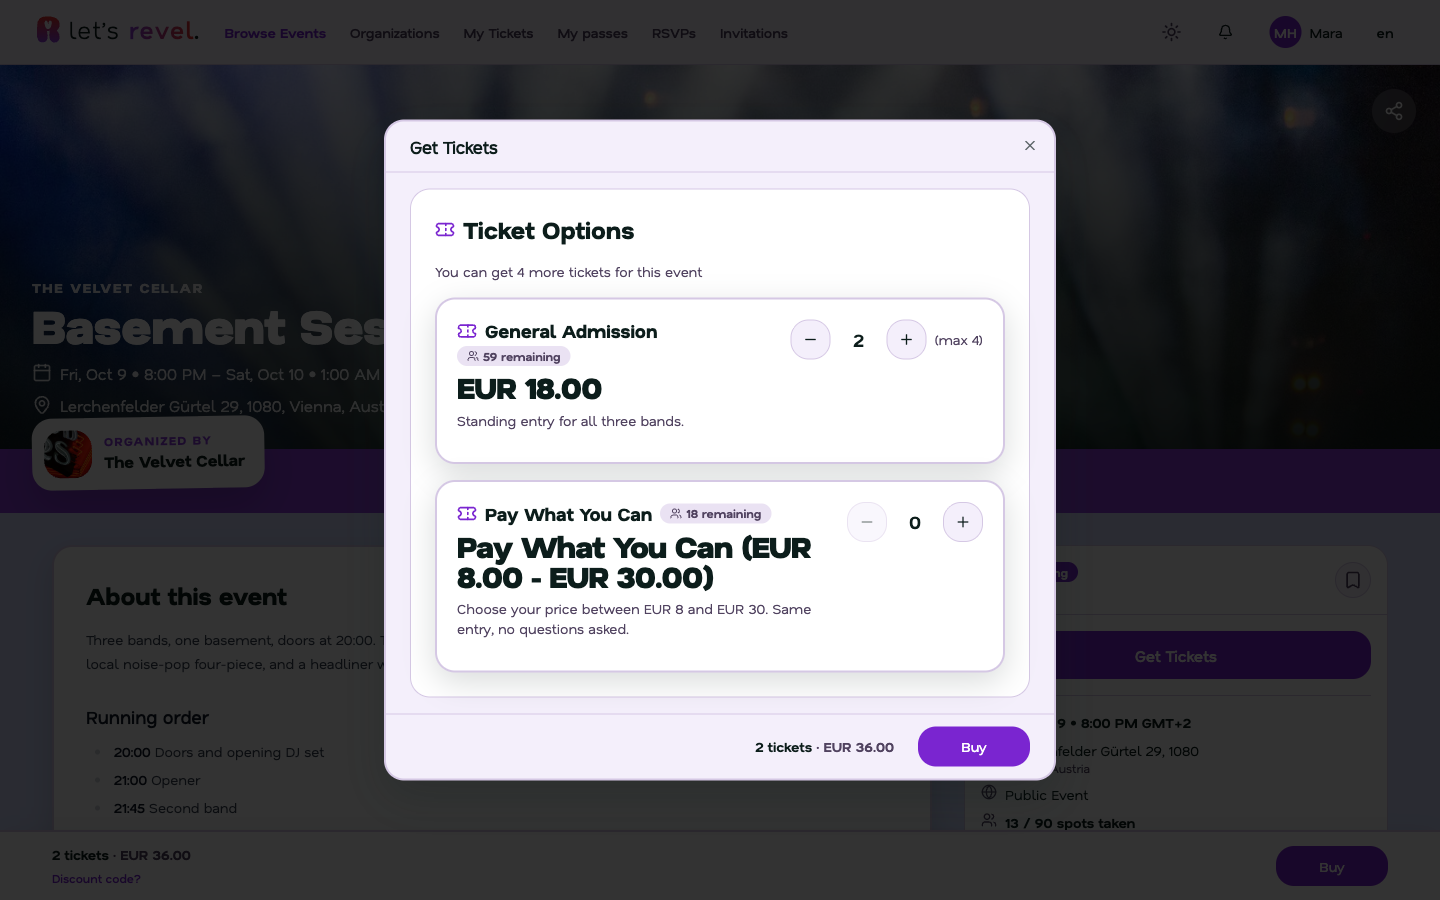
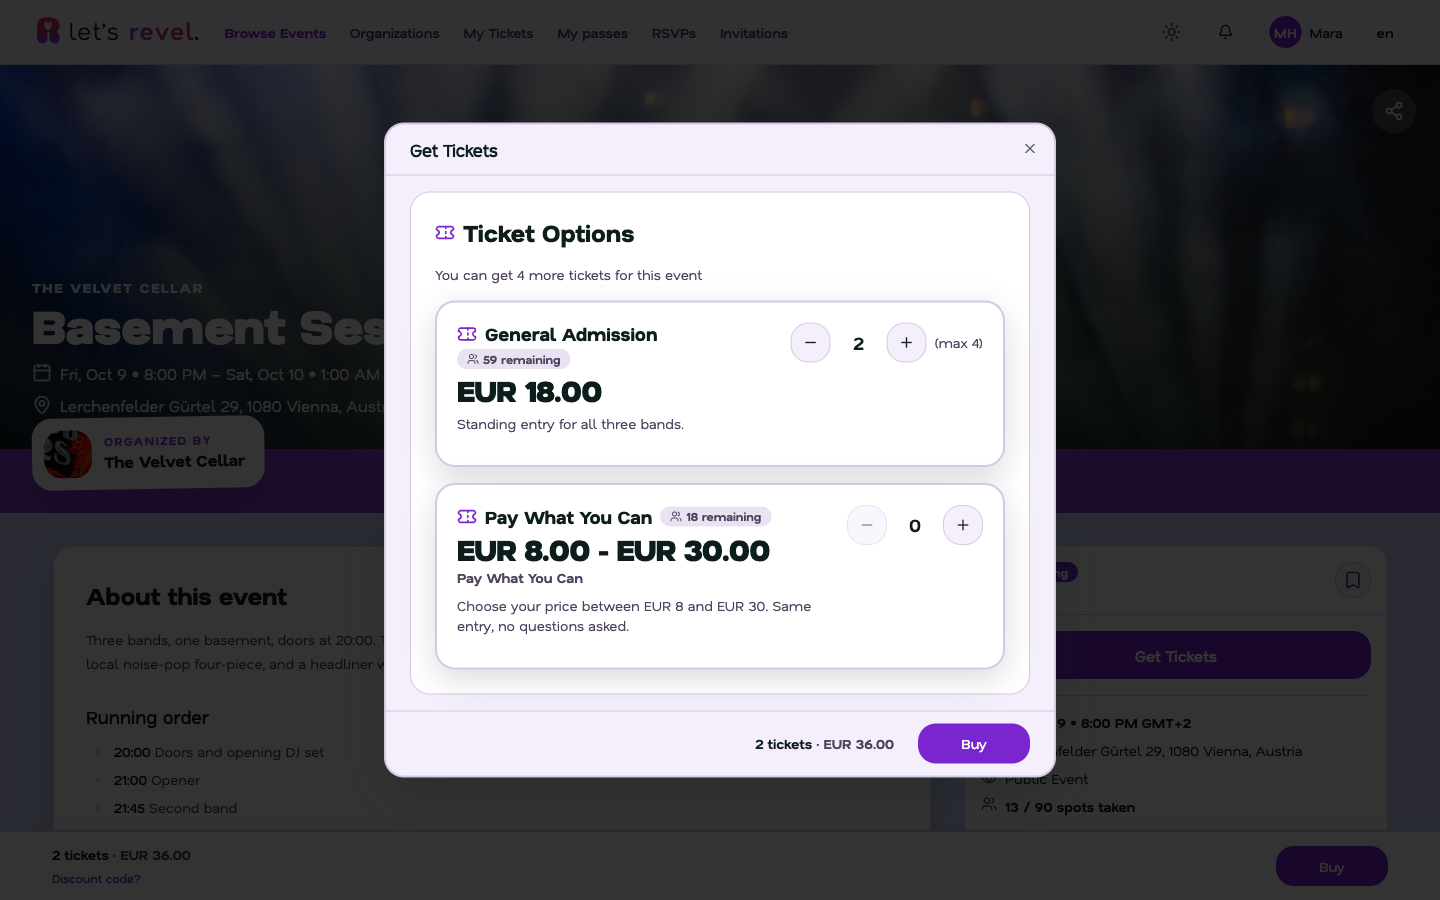
docs: retake screenshots after UI hotfixes; rope workshop questionnaire
Retaken after the frontend hotfixes (PWYC headline, address, admin tabs,
seat picker footer, mobile logo). The questionnaire and submissions shots
now show a rope workshop application from the demo seed's shibari org.

diff --git a/README.md b/README.md
@@ -182,9 +182,9 @@ Potluck coordination with dietary restrictions, polls and event discovery with d
   </tr>
   <tr>
     <td align="center">
-      <img src="docs/screenshots/questionnaire-screening.png" alt="Screening questionnaire" width="400"/>
+      <img src="docs/screenshots/questionnaire-screening.png" alt="Application questionnaire for a rope workshop" width="400"/>
       <br/>
-      <em>A screening questionnaire before RSVP</em>
+      <em>An application questionnaire for a rope workshop</em>
     </td>
     <td align="center">
       <img src="docs/screenshots/financials.png" alt="Revenue and VAT reporting" width="400"/>
